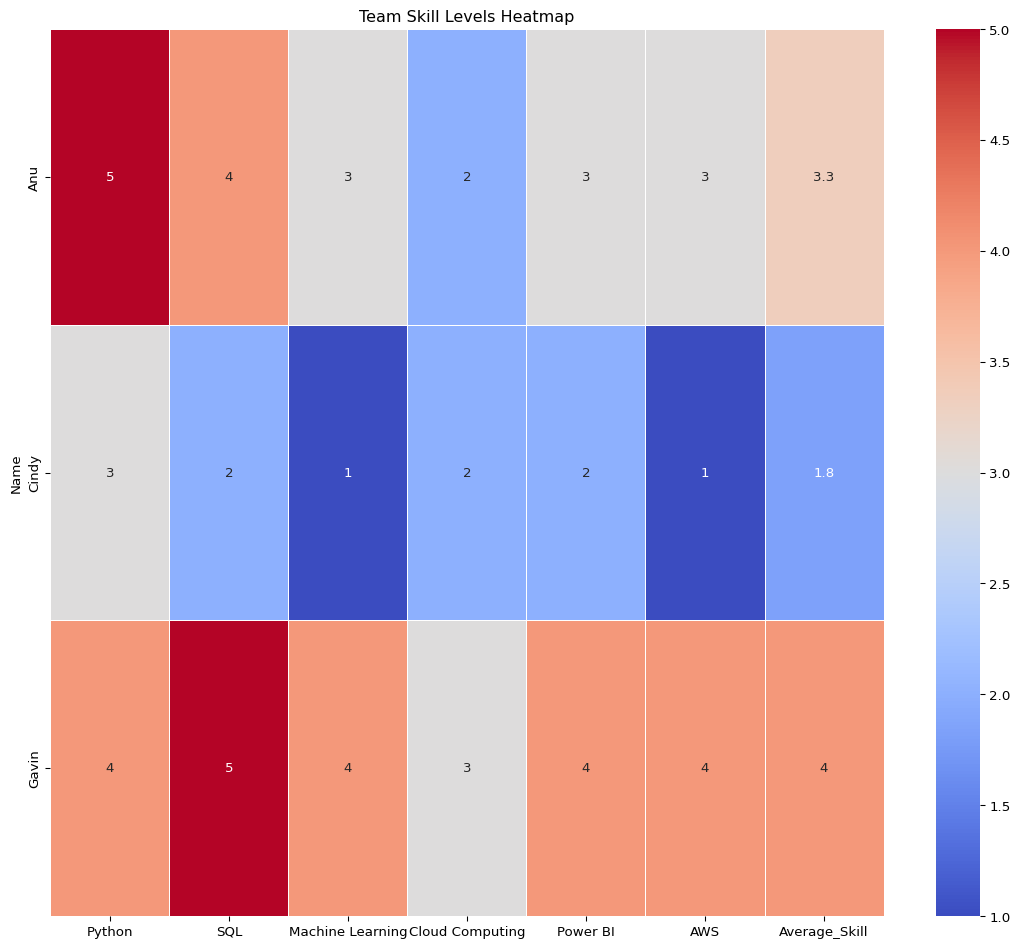
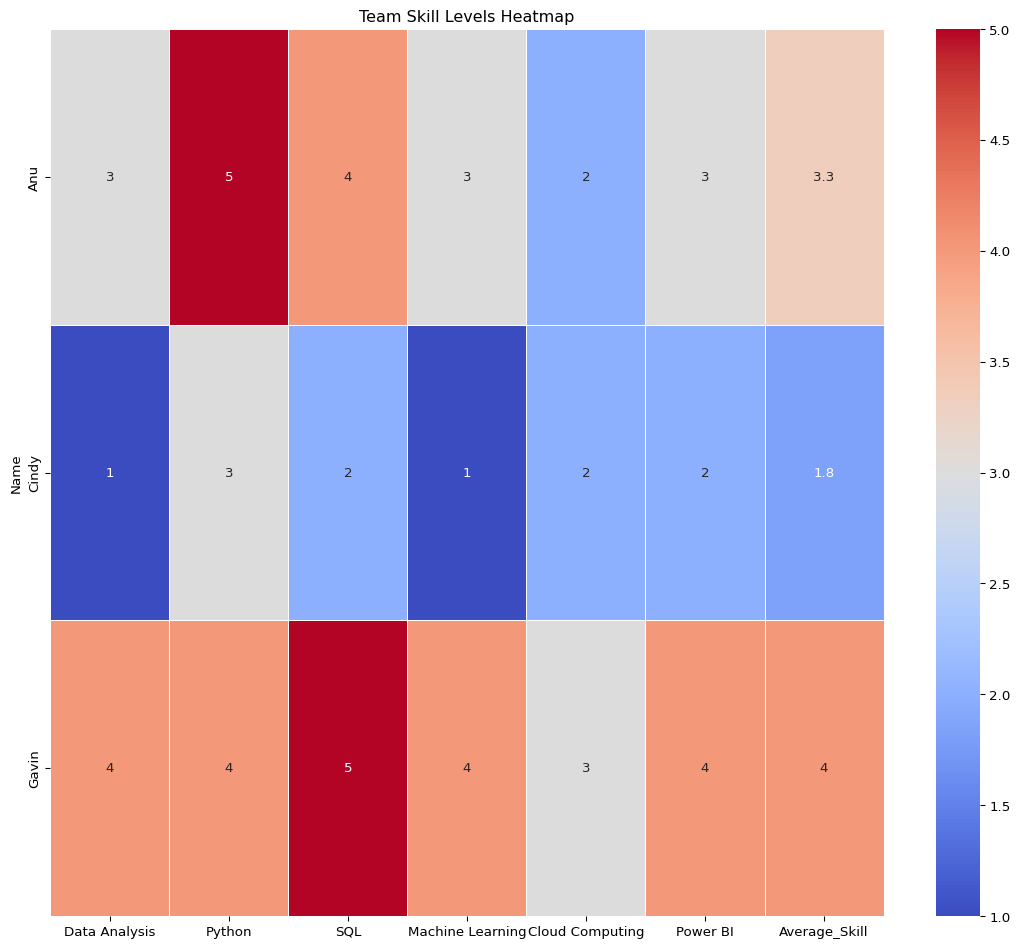
updated skill gap analysis

diff --git a/docs/skill_gap_analysis.html b/docs/skill_gap_analysis.html
@@ -170,6 +170,9 @@ pre > code.sourceCode > span > a:first-child::before { text-decoration: underlin
    
   <ul>
   <li><a href="#team-dataframe" id="toc-team-dataframe" class="nav-link active" data-scroll-target="#team-dataframe"><span class="header-section-number">1</span> Team Dataframe</a></li>
+  <li><a href="#what-the-heatmap-shows" id="toc-what-the-heatmap-shows" class="nav-link" data-scroll-target="#what-the-heatmap-shows"><span class="header-section-number">2</span> What the Heatmap Shows</a></li>
+  <li><a href="#addressing-skill-gaps" id="toc-addressing-skill-gaps" class="nav-link" data-scroll-target="#addressing-skill-gaps"><span class="header-section-number">3</span> Addressing Skill Gaps</a></li>
+  <li><a href="#comparing-top-job-market-skills" id="toc-comparing-top-job-market-skills" class="nav-link" data-scroll-target="#comparing-top-job-market-skills"><span class="header-section-number">4</span> Comparing Top Job Market Skills</a></li>
   </ul>
 </nav>
     </div>
@@ -212,7 +215,7 @@ pre > code.sourceCode > span > a:first-child::before { text-decoration: underlin
 <section id="team-dataframe" class="level1" data-number="1">
 <h1 data-number="1"><span class="header-section-number">1</span> Team Dataframe</h1>
 <p>Our team conducted an overview of our current technical skills when it comes to Business Analytics and our skill levels. The goal was to understand where the group’s strengths and weaknesses were, and understand how the data that was collected could relate to the data that was observed in the research conducted. This was used to identify strengths and weaknesses for the group while also identifying potential gaps within the group.</p>
-<div id="dbe368ec" class="cell" data-execution_count="1">
+<div id="0454dddb" class="cell" data-execution_count="1">
 <details class="code-fold">
 <summary>Code</summary>
 <div class="sourceCode cell-code" id="cb1"><pre class="sourceCode python code-with-copy"><code class="sourceCode python"><span id="cb1-1"><a href="#cb1-1" aria-hidden="true" tabindex="-1"></a><span class="im">import</span> pandas <span class="im">as</span> pd</span>
@@ -220,55 +223,56 @@ pre > code.sourceCode > span > a:first-child::before { text-decoration: underlin
 <span id="cb1-3"><a href="#cb1-3" aria-hidden="true" tabindex="-1"></a><span class="co"># Extended skills data</span></span>
 <span id="cb1-4"><a href="#cb1-4" aria-hidden="true" tabindex="-1"></a>skills_data <span class="op">=</span> {</span>
 <span id="cb1-5"><a href="#cb1-5" aria-hidden="true" tabindex="-1"></a>    <span class="st">"Name"</span>: [<span class="st">"Anu"</span>, <span class="st">"Cindy"</span>, <span class="st">"Gavin"</span>],</span>
-<span id="cb1-6"><a href="#cb1-6" aria-hidden="true" tabindex="-1"></a>    <span class="st">"Python"</span>: [<span class="dv">5</span>, <span class="dv">3</span>, <span class="dv">4</span>],</span>
-<span id="cb1-7"><a href="#cb1-7" aria-hidden="true" tabindex="-1"></a>    <span class="st">"SQL"</span>: [<span class="dv">4</span>, <span class="dv">2</span>, <span class="dv">5</span>],</span>
-<span id="cb1-8"><a href="#cb1-8" aria-hidden="true" tabindex="-1"></a>    <span class="st">"Machine Learning"</span>: [<span class="dv">3</span>, <span class="dv">1</span>, <span class="dv">4</span>],</span>
-<span id="cb1-9"><a href="#cb1-9" aria-hidden="true" tabindex="-1"></a>    <span class="st">"Cloud Computing"</span>: [<span class="dv">2</span>, <span class="dv">2</span>, <span class="dv">3</span>],</span>
-<span id="cb1-10"><a href="#cb1-10" aria-hidden="true" tabindex="-1"></a>    <span class="st">"Power BI"</span>: [<span class="dv">3</span>, <span class="dv">2</span>, <span class="dv">4</span>],</span>
-<span id="cb1-11"><a href="#cb1-11" aria-hidden="true" tabindex="-1"></a>    <span class="st">"AWS"</span>: [<span class="dv">3</span>,<span class="dv">1</span>,<span class="dv">4</span>]</span>
-<span id="cb1-12"><a href="#cb1-12" aria-hidden="true" tabindex="-1"></a>}</span>
-<span id="cb1-13"><a href="#cb1-13" aria-hidden="true" tabindex="-1"></a></span>
-<span id="cb1-14"><a href="#cb1-14" aria-hidden="true" tabindex="-1"></a><span class="co"># Create DataFrame and set index</span></span>
-<span id="cb1-15"><a href="#cb1-15" aria-hidden="true" tabindex="-1"></a>df_skills <span class="op">=</span> pd.DataFrame(skills_data).set_index(<span class="st">"Name"</span>)</span>
-<span id="cb1-16"><a href="#cb1-16" aria-hidden="true" tabindex="-1"></a></span>
-<span id="cb1-17"><a href="#cb1-17" aria-hidden="true" tabindex="-1"></a><span class="co"># Ensure all columns are numeric</span></span>
-<span id="cb1-18"><a href="#cb1-18" aria-hidden="true" tabindex="-1"></a>df_skills <span class="op">=</span> df_skills.<span class="bu">apply</span>(pd.to_numeric)</span>
-<span id="cb1-19"><a href="#cb1-19" aria-hidden="true" tabindex="-1"></a></span>
-<span id="cb1-20"><a href="#cb1-20" aria-hidden="true" tabindex="-1"></a><span class="co"># Add average skill score across all tools</span></span>
-<span id="cb1-21"><a href="#cb1-21" aria-hidden="true" tabindex="-1"></a>df_skills[<span class="st">"Average_Skill"</span>] <span class="op">=</span> df_skills.mean(axis<span class="op">=</span><span class="dv">1</span>)</span>
-<span id="cb1-22"><a href="#cb1-22" aria-hidden="true" tabindex="-1"></a></span>
-<span id="cb1-23"><a href="#cb1-23" aria-hidden="true" tabindex="-1"></a><span class="co"># Style with borders and centered text</span></span>
-<span id="cb1-24"><a href="#cb1-24" aria-hidden="true" tabindex="-1"></a>df_styled <span class="op">=</span> df_skills.style.set_table_styles([</span>
-<span id="cb1-25"><a href="#cb1-25" aria-hidden="true" tabindex="-1"></a>    {<span class="st">'selector'</span>: <span class="st">'th, td'</span>, <span class="st">'props'</span>: [(<span class="st">'border'</span>, <span class="st">'1px solid black'</span>),</span>
-<span id="cb1-26"><a href="#cb1-26" aria-hidden="true" tabindex="-1"></a>                                     (<span class="st">'text-align'</span>, <span class="st">'center'</span>)]}</span>
-<span id="cb1-27"><a href="#cb1-27" aria-hidden="true" tabindex="-1"></a>])</span>
-<span id="cb1-28"><a href="#cb1-28" aria-hidden="true" tabindex="-1"></a></span>
-<span id="cb1-29"><a href="#cb1-29" aria-hidden="true" tabindex="-1"></a>df_styled</span></code><button title="Copy to Clipboard" class="code-copy-button"><i class="bi"></i></button></pre></div>
+<span id="cb1-6"><a href="#cb1-6" aria-hidden="true" tabindex="-1"></a>    <span class="st">"Data Analysis"</span>: [<span class="dv">3</span>, <span class="dv">1</span>, <span class="dv">4</span>],</span>
+<span id="cb1-7"><a href="#cb1-7" aria-hidden="true" tabindex="-1"></a>    <span class="st">"Python"</span>: [<span class="dv">5</span>, <span class="dv">3</span>, <span class="dv">4</span>],</span>
+<span id="cb1-8"><a href="#cb1-8" aria-hidden="true" tabindex="-1"></a>    <span class="st">"SQL"</span>: [<span class="dv">4</span>, <span class="dv">2</span>, <span class="dv">5</span>],</span>
+<span id="cb1-9"><a href="#cb1-9" aria-hidden="true" tabindex="-1"></a>    <span class="st">"Machine Learning"</span>: [<span class="dv">3</span>, <span class="dv">1</span>, <span class="dv">4</span>],</span>
+<span id="cb1-10"><a href="#cb1-10" aria-hidden="true" tabindex="-1"></a>    <span class="st">"Cloud Computing"</span>: [<span class="dv">2</span>, <span class="dv">2</span>, <span class="dv">3</span>],</span>
+<span id="cb1-11"><a href="#cb1-11" aria-hidden="true" tabindex="-1"></a>    <span class="st">"Power BI"</span>: [<span class="dv">3</span>, <span class="dv">2</span>, <span class="dv">4</span>],</span>
+<span id="cb1-12"><a href="#cb1-12" aria-hidden="true" tabindex="-1"></a>    </span>
+<span id="cb1-13"><a href="#cb1-13" aria-hidden="true" tabindex="-1"></a>}</span>
+<span id="cb1-14"><a href="#cb1-14" aria-hidden="true" tabindex="-1"></a></span>
+<span id="cb1-15"><a href="#cb1-15" aria-hidden="true" tabindex="-1"></a><span class="co"># Create DataFrame and set index</span></span>
+<span id="cb1-16"><a href="#cb1-16" aria-hidden="true" tabindex="-1"></a>df_skills <span class="op">=</span> pd.DataFrame(skills_data).set_index(<span class="st">"Name"</span>)</span>
+<span id="cb1-17"><a href="#cb1-17" aria-hidden="true" tabindex="-1"></a></span>
+<span id="cb1-18"><a href="#cb1-18" aria-hidden="true" tabindex="-1"></a><span class="co"># Ensure all columns are numeric</span></span>
+<span id="cb1-19"><a href="#cb1-19" aria-hidden="true" tabindex="-1"></a>df_skills <span class="op">=</span> df_skills.<span class="bu">apply</span>(pd.to_numeric)</span>
+<span id="cb1-20"><a href="#cb1-20" aria-hidden="true" tabindex="-1"></a></span>
+<span id="cb1-21"><a href="#cb1-21" aria-hidden="true" tabindex="-1"></a><span class="co"># Add average skill score across all tools</span></span>
+<span id="cb1-22"><a href="#cb1-22" aria-hidden="true" tabindex="-1"></a>df_skills[<span class="st">"Average_Skill"</span>] <span class="op">=</span> df_skills.mean(axis<span class="op">=</span><span class="dv">1</span>)</span>
+<span id="cb1-23"><a href="#cb1-23" aria-hidden="true" tabindex="-1"></a></span>
+<span id="cb1-24"><a href="#cb1-24" aria-hidden="true" tabindex="-1"></a><span class="co"># Style with borders and centered text</span></span>
+<span id="cb1-25"><a href="#cb1-25" aria-hidden="true" tabindex="-1"></a>df_styled <span class="op">=</span> df_skills.style.set_table_styles([</span>
+<span id="cb1-26"><a href="#cb1-26" aria-hidden="true" tabindex="-1"></a>    {<span class="st">'selector'</span>: <span class="st">'th, td'</span>, <span class="st">'props'</span>: [(<span class="st">'border'</span>, <span class="st">'1px solid black'</span>),</span>
+<span id="cb1-27"><a href="#cb1-27" aria-hidden="true" tabindex="-1"></a>                                     (<span class="st">'text-align'</span>, <span class="st">'center'</span>)]}</span>
+<span id="cb1-28"><a href="#cb1-28" aria-hidden="true" tabindex="-1"></a>])</span>
+<span id="cb1-29"><a href="#cb1-29" aria-hidden="true" tabindex="-1"></a></span>
+<span id="cb1-30"><a href="#cb1-30" aria-hidden="true" tabindex="-1"></a>df_styled</span></code><button title="Copy to Clipboard" class="code-copy-button"><i class="bi"></i></button></pre></div>
 </details>
-<div class="cell-output cell-output-display" data-execution_count="1">
+<div class="cell-output cell-output-display" data-execution_count="3">
 <div>
 <style type="text/css">
-#T_65a3d th {
+#T_1ebed th {
   border: 1px solid black;
   text-align: center;
 }
-#T_65a3d  td {
+#T_1ebed  td {
   border: 1px solid black;
   text-align: center;
 }
 </style>
 
-<table id="T_65a3d" data-quarto-postprocess="true" class="table table-sm table-striped small">
+<table id="T_1ebed" data-quarto-postprocess="true" class="table table-sm table-striped small">
 <thead>
 <tr class="header">
 <th class="blank level0" data-quarto-table-cell-role="th">&nbsp;</th>
-<th id="T_65a3d_level0_col0" class="col_heading level0 col0" data-quarto-table-cell-role="th">Python</th>
-<th id="T_65a3d_level0_col1" class="col_heading level0 col1" data-quarto-table-cell-role="th">SQL</th>
-<th id="T_65a3d_level0_col2" class="col_heading level0 col2" data-quarto-table-cell-role="th">Machine Learning</th>
-<th id="T_65a3d_level0_col3" class="col_heading level0 col3" data-quarto-table-cell-role="th">Cloud Computing</th>
-<th id="T_65a3d_level0_col4" class="col_heading level0 col4" data-quarto-table-cell-role="th">Power BI</th>
-<th id="T_65a3d_level0_col5" class="col_heading level0 col5" data-quarto-table-cell-role="th">AWS</th>
-<th id="T_65a3d_level0_col6" class="col_heading level0 col6" data-quarto-table-cell-role="th">Average_Skill</th>
+<th id="T_1ebed_level0_col0" class="col_heading level0 col0" data-quarto-table-cell-role="th">Data Analysis</th>
+<th id="T_1ebed_level0_col1" class="col_heading level0 col1" data-quarto-table-cell-role="th">Python</th>
+<th id="T_1ebed_level0_col2" class="col_heading level0 col2" data-quarto-table-cell-role="th">SQL</th>
+<th id="T_1ebed_level0_col3" class="col_heading level0 col3" data-quarto-table-cell-role="th">Machine Learning</th>
+<th id="T_1ebed_level0_col4" class="col_heading level0 col4" data-quarto-table-cell-role="th">Cloud Computing</th>
+<th id="T_1ebed_level0_col5" class="col_heading level0 col5" data-quarto-table-cell-role="th">Power BI</th>
+<th id="T_1ebed_level0_col6" class="col_heading level0 col6" data-quarto-table-cell-role="th">Average_Skill</th>
 </tr>
 <tr class="odd">
 <th class="index_name level0" data-quarto-table-cell-role="th">Name</th>
@@ -283,41 +287,41 @@ pre > code.sourceCode > span > a:first-child::before { text-decoration: underlin
 </thead>
 <tbody>
 <tr class="odd">
-<td id="T_65a3d_level0_row0" class="row_heading level0 row0" data-quarto-table-cell-role="th">Anu</td>
-<td id="T_65a3d_row0_col0" class="data row0 col0">5</td>
-<td id="T_65a3d_row0_col1" class="data row0 col1">4</td>
-<td id="T_65a3d_row0_col2" class="data row0 col2">3</td>
-<td id="T_65a3d_row0_col3" class="data row0 col3">2</td>
-<td id="T_65a3d_row0_col4" class="data row0 col4">3</td>
-<td id="T_65a3d_row0_col5" class="data row0 col5">3</td>
-<td id="T_65a3d_row0_col6" class="data row0 col6">3.333333</td>
+<td id="T_1ebed_level0_row0" class="row_heading level0 row0" data-quarto-table-cell-role="th">Anu</td>
+<td id="T_1ebed_row0_col0" class="data row0 col0">3</td>
+<td id="T_1ebed_row0_col1" class="data row0 col1">5</td>
+<td id="T_1ebed_row0_col2" class="data row0 col2">4</td>
+<td id="T_1ebed_row0_col3" class="data row0 col3">3</td>
+<td id="T_1ebed_row0_col4" class="data row0 col4">2</td>
+<td id="T_1ebed_row0_col5" class="data row0 col5">3</td>
+<td id="T_1ebed_row0_col6" class="data row0 col6">3.333333</td>
 </tr>
 <tr class="even">
-<td id="T_65a3d_level0_row1" class="row_heading level0 row1" data-quarto-table-cell-role="th">Cindy</td>
-<td id="T_65a3d_row1_col0" class="data row1 col0">3</td>
-<td id="T_65a3d_row1_col1" class="data row1 col1">2</td>
-<td id="T_65a3d_row1_col2" class="data row1 col2">1</td>
-<td id="T_65a3d_row1_col3" class="data row1 col3">2</td>
-<td id="T_65a3d_row1_col4" class="data row1 col4">2</td>
-<td id="T_65a3d_row1_col5" class="data row1 col5">1</td>
-<td id="T_65a3d_row1_col6" class="data row1 col6">1.833333</td>
+<td id="T_1ebed_level0_row1" class="row_heading level0 row1" data-quarto-table-cell-role="th">Cindy</td>
+<td id="T_1ebed_row1_col0" class="data row1 col0">1</td>
+<td id="T_1ebed_row1_col1" class="data row1 col1">3</td>
+<td id="T_1ebed_row1_col2" class="data row1 col2">2</td>
+<td id="T_1ebed_row1_col3" class="data row1 col3">1</td>
+<td id="T_1ebed_row1_col4" class="data row1 col4">2</td>
+<td id="T_1ebed_row1_col5" class="data row1 col5">2</td>
+<td id="T_1ebed_row1_col6" class="data row1 col6">1.833333</td>
 </tr>
 <tr class="odd">
-<td id="T_65a3d_level0_row2" class="row_heading level0 row2" data-quarto-table-cell-role="th">Gavin</td>
-<td id="T_65a3d_row2_col0" class="data row2 col0">4</td>
-<td id="T_65a3d_row2_col1" class="data row2 col1">5</td>
-<td id="T_65a3d_row2_col2" class="data row2 col2">4</td>
-<td id="T_65a3d_row2_col3" class="data row2 col3">3</td>
-<td id="T_65a3d_row2_col4" class="data row2 col4">4</td>
-<td id="T_65a3d_row2_col5" class="data row2 col5">4</td>
-<td id="T_65a3d_row2_col6" class="data row2 col6">4.000000</td>
+<td id="T_1ebed_level0_row2" class="row_heading level0 row2" data-quarto-table-cell-role="th">Gavin</td>
+<td id="T_1ebed_row2_col0" class="data row2 col0">4</td>
+<td id="T_1ebed_row2_col1" class="data row2 col1">4</td>
+<td id="T_1ebed_row2_col2" class="data row2 col2">5</td>
+<td id="T_1ebed_row2_col3" class="data row2 col3">4</td>
+<td id="T_1ebed_row2_col4" class="data row2 col4">3</td>
+<td id="T_1ebed_row2_col5" class="data row2 col5">4</td>
+<td id="T_1ebed_row2_col6" class="data row2 col6">4.000000</td>
 </tr>
 </tbody>
 </table>
 </div>
 </div>
 </div>
-<div id="d01c3e8d" class="cell" data-execution_count="2">
+<div id="d21a6e9d" class="cell" data-execution_count="2">
 <details class="code-fold">
 <summary>Code</summary>
 <div class="sourceCode cell-code" id="cb2"><pre class="sourceCode python code-with-copy"><code class="sourceCode python"><span id="cb2-1"><a href="#cb2-1" aria-hidden="true" tabindex="-1"></a><span class="im">import</span> seaborn <span class="im">as</span> sns</span>
@@ -336,6 +340,18 @@ pre > code.sourceCode > span > a:first-child::before { text-decoration: underlin
 </div>
 </div>
 </div>
+</section>
+<section id="what-the-heatmap-shows" class="level1" data-number="2">
+<h1 data-number="2"><span class="header-section-number">2</span> What the Heatmap Shows</h1>
+<p>When looking at the heatmap it shows that our team still feels relatively new to these technical skills and highlighted in blue are the most notable areas for growth. One person in our group is a Business Analyst while the other two do not use these tools on a daily basis and due to this lack of exposure likely contribute to a lack of technical skill observed in the heatmap. Increased exposure and experience outside of an educational setting could contribute to increased technical skills within the group.</p>
+<p>Data Analysis represents the strongest skill that our group presents, while this isn’t a program it was noted as one of the top skills that impacted salary, alongside experience and being remote. Regardless of the type of data analysis experience, having the ability to analyze data is more vital according to the data represented in the ML Model section of this website. Having a core analytical ability puts our group ahead of most canidates that have vast python experience depending on the types of jobs that they are looking to apply for, and adding the other analytical tools such as Python and PowerBI only empower our group further in the ability to find higher paying jobs.</p>
+<p>Python is one of the strongest skills across the team and this is likely in large part due to the exposure that has occured during this course, while no one in the group are experts in Python our technical skill levels indicate that we have a foundational understanding of the programming language and are able to navigate the complexities and manipulate data in order to meet organizational goals and objectives required for data analysis, automation, and model development that was observed during this course. Cloud computing was one of the areas where we struggled as a group and this was in large part due to a lack of exposure and could likely increase in environments where this was utilized similar to our educational environment like this class.</p>
+</section>
+<section id="addressing-skill-gaps" class="level1" data-number="3">
+<h1 data-number="3"><span class="header-section-number">3</span> Addressing Skill Gaps</h1>
+</section>
+<section id="comparing-top-job-market-skills" class="level1" data-number="4">
+<h1 data-number="4"><span class="header-section-number">4</span> Comparing Top Job Market Skills</h1>
 
 
 </section>
